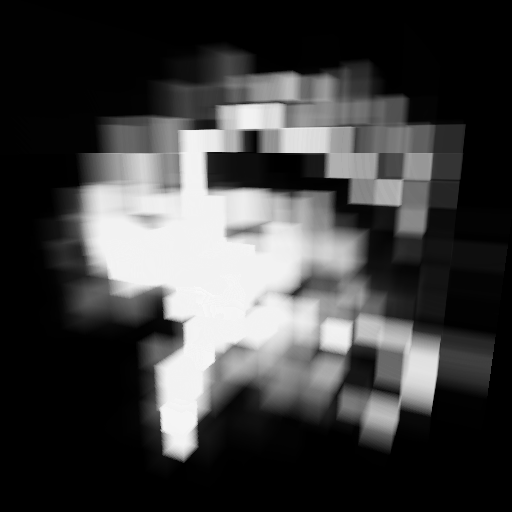
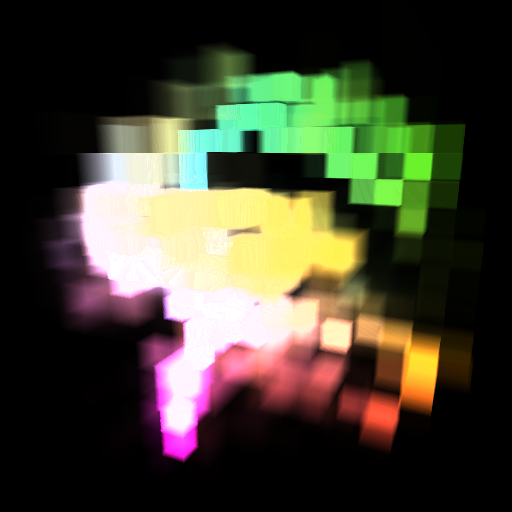
cuda texture

diff --git a/src/hydrant/main.cc b/src/hydrant/main.cc
@@ -3,6 +3,7 @@
 #include <VMUtils/timer.hpp>
 #include <VMUtils/cmdline.hpp>
 #include <varch/utils/io.hpp>
+#include <cudafx/transfer.hpp>
 #include <thumbnail.hpp>
 #include "shaders/scratch.hpp"
 
@@ -43,12 +44,27 @@ int main( int argc, char **argv )
 
 	shader.bbox = Box3D{ min, max };
 	shader.th_4 = thumbnail.dim.x / 4.f;
-	thumbnail.iterate_3d(
-	  [&]( Idx const &idx ) {
-		  auto &dst = shader.thumbnail[ idx.x ][ idx.y ][ idx.z ];
-		  auto &src = thumbnail[ idx ];
-		  dst = { src.value, src.chebyshev };
-	  } );
+
+	auto device = cufx::Device::scan()[ 0 ];
+	auto thumbnail_extent = cufx::Extent{}
+							  .set_width( thumbnail.dim.x )
+							  .set_height( thumbnail.dim.y )
+							  .set_depth( thumbnail.dim.z );
+	auto thumbnail_arr = device.alloc_arraynd<float2, 3>( thumbnail_extent );
+	// vm::println( "dim = {}, thumbnail_extent = {}", thumbnail.dim, thumbnail_extent );
+	auto view_info = cufx::MemoryView2DInfo{}
+					   .set_stride( thumbnail.dim.x * sizeof( float2 ) )
+					   .set_width( thumbnail.dim.x )
+					   .set_height( thumbnail.dim.y );
+	cufx::MemoryView3D<float2> thumbnail_view( thumbnail.data(), view_info, thumbnail_extent );
+	cufx::memory_transfer( thumbnail_arr, thumbnail_view ).launch();
+	auto tex_opts = cufx::Texture::Options{}
+					  .set_address_mode( cufx::Texture::AddressMode::Border )
+					  .set_filter_mode( cufx::Texture::FilterMode::None )
+					  .set_read_mode( cufx::Texture::ReadMode::Raw )
+					  .set_normalize_coords( false );
+	cufx::Texture thumbnail_texture( thumbnail_arr, tex_opts );
+	shader.thumbnail_tex = thumbnail_texture;
 
 	auto camera = Camera{};
 	if ( a.exist( "config" ) ) {
@@ -61,9 +77,8 @@ int main( int argc, char **argv )
 		camera.set_position( x, y, z );
 	}
 
-	auto devices = cufx::Device::scan();
 	cufx::Image<typename Shader::Pixel> image( 512, 512 );
-	auto device_swap = devices[ 0 ].alloc_image_swap( image );
+	auto device_swap = device.alloc_image_swap( image );
 	auto img_view = image.view().with_device_memory( device_swap.second );
 	img_view.copy_to_device().launch();
 

diff --git a/src/hydrant/shaders/scratch.hpp b/src/hydrant/shaders/scratch.hpp
@@ -1,4 +1,5 @@
 #include <glm_math.hpp>
+#include <texture_adapter.hpp>
 #include "chebyshev_shader.hpp"
 
 VM_BEGIN_MODULE( hydrant )
@@ -9,42 +10,42 @@ VM_EXPORT
 	{
 		void write_to( unsigned char dst[ 4 ] )
 		{
-			auto v = glm::clamp( this->v.x * 255.f, 0.f, 255.f );
-			dst[ 0 ] = (unsigned char)( v );
-			dst[ 1 ] = (unsigned char)( v );
-			dst[ 2 ] = (unsigned char)( v );
+			auto v = glm::clamp( this->v * 255.f, glm::vec4( 0.f ), glm::vec4( 255.f ) );
+			dst[ 0 ] = (unsigned char)( v.x );
+			dst[ 1 ] = (unsigned char)( v.y );
+			dst[ 2 ] = (unsigned char)( v.z );
 			dst[ 3 ] = (unsigned char)( 255 );
 		}
 
 	public:
-		glm::vec2 v;
+		glm::vec4 v;
 	};
 
 	struct ScratchIntegrator
 	{
 		using Pixel = ScratchPixel;
 
-		__host__ __device__ bool
-		  integrate( glm::vec3 const &p, glm::ivec3 const &ip, ScratchPixel &pixel ) const
+		__device__ bool
+		  integrate( glm::vec3 const &p, glm::vec3 const &ip, ScratchPixel &pixel ) const
 		{
 			const auto opacity_threshold = 0.95f;
-			const auto density = 3e-3f;
+			const auto density = 3e-4f;
 
-			auto val = thumbnail[ ip.x ][ ip.y ][ ip.z ].x;
-			auto col = glm::vec2{ 1, 1 } * val * density;
-			pixel.v += col * ( 1.f - pixel.v.y );
+			auto val = glm::vec4( thumbnail_tex.sample_3d<float2>( ip ).x );
+			auto col = glm::vec4( ip, 1 ) * val * density;
+			pixel.v += col * ( 1.f - pixel.v.w );
 
 			return pixel.v.y <= opacity_threshold;
 		}
 
-		__host__ __device__ float
-		  chebyshev( glm::ivec3 const &ip ) const
+		__device__ float
+		  chebyshev( glm::vec3 const &ip ) const
 		{
-			return thumbnail[ ip.x ][ ip.y ][ ip.z ].y;
+			return thumbnail_tex.sample_3d<float2>( ip ).y;
 		}
 
 	public:
-		glm::vec2 thumbnail[ 5 ][ 5 ][ 5 ];
+		TextureAdapter thumbnail_tex;
 	};
 
 	SHADER_DECL( ChebyshevShader<ScratchIntegrator> );

diff --git a/src/hydrant/shaders/chebyshev_shader.hpp b/src/hydrant/shaders/chebyshev_shader.hpp
@@ -7,43 +7,38 @@ VM_EXPORT
 	template <typename Integrator>
 	struct ChebyshevShader : Integrator
 	{
-		__host__ __device__ void
+		__device__ void
 		  apply( Ray const &ray, typename Integrator::Pixel &pixel ) const
 		{
-			const auto nsteps = 500;
 			const auto step = 1e-2f * th_4;
-			const auto abs_d = glm::abs( ray.d );
-			const auto cdu = 1.f / max( abs_d.x, max( abs_d.y, abs_d.z ) );
+			const auto cdu = 1.f / glm::compMax( glm::abs( ray.d ) );
 
-			pixel = {};
+			auto pixel_reg = pixel;
 			float tnear, tfar;
 			if ( ray.intersect( bbox, tnear, tfar ) ) {
+				const int nsteps = min( max_steps, int( ( tfar - tnear ) / step ) );
 				auto p = ray.o + ray.d * tnear;
-				int i;
-				for ( i = 0; i < nsteps; ++i ) {
+				for ( int i = 0; i < nsteps; ++i ) {
 					p += ray.d * step;
-					glm::ivec3 ip = floor( p );
-
-					if ( !( ip.x >= 0 && ip.y >= 0 && ip.z >= 0 &&
-							ip.x < 5 && ip.y < 5 && ip.z < 5 ) ) {
-						break;
-					}
+					glm::vec3 ip = floor( p );
 					if ( float cd = this->chebyshev( ip ) ) {
 						float tnear, tfar;
-						Ray{ p, ray.d }.intersect( Box3D{ ip, ip + 1 }, tnear, tfar );
+						Ray{ p, ray.d }.intersect( Box3D{ ip, ip + 1.f }, tnear, tfar );
 						auto d = tfar + ( cd - 1 ) * cdu;
 						i += d / step;
 						p += ray.d * d;
-					} else if ( !this->integrate( p, ip, pixel ) ) {
+					} else if ( !this->integrate( p, ip, pixel_reg ) ) {
 						break;
 					}
 				}
 			}
+			pixel = pixel_reg;
 		}
 
 	public:
 		Box3D bbox;
 		float th_4;
+		int max_steps = 500;
 	};
 }
 

diff --git a/include/glm_math.hpp b/include/glm_math.hpp
@@ -1,28 +1,14 @@
 #pragma once
 
 #include <glm/glm.hpp>
+#define GLM_ENABLE_EXPERIMENTAL
+#include <glm/gtx/io.hpp>
+#include <glm/gtx/component_wise.hpp>
 #include <glm/gtc/matrix_transform.hpp>
 #include <VMUtils/fmt.hpp>
 #include <VMUtils/attributes.hpp>
 #include <VMUtils/modules.hpp>
 #include <VMUtils/json_binding.hpp>
-
-inline std::ostream &operator<<( std::ostream &os, glm::mat4 const &m )
-{
-	for ( int i = 0; i != 4; ++i ) {
-		vm::fprintln( os, "{} {} {} {}", m[ 0 ][ i ], m[ 1 ][ i ], m[ 2 ][ i ], m[ 3 ][ i ] );
-	}
-	return os;
-}
-
-template <int N, typename T>
-inline std::ostream &operator<<( std::ostream &os, glm::vec<N, T> const &v )
-{
-	for ( int i = 0; i != N; ++i ) {
-		vm::fprint( os, "{}, ", v[ i ] );
-	}
-	return os;
-}
 
 namespace glm
 {
@@ -48,6 +34,13 @@ VM_EXPORT
 	{
 		VM_DEFINE_ATTRIBUTE( vec3, min );
 		VM_DEFINE_ATTRIBUTE( vec3, max );
+
+		__host__ __device__ bool
+		  contains( vec3 const &pt ) const
+		{
+			return glm::all( glm::greaterThanEqual( pt, min ) ) &&
+				   glm::all( glm::lessThanEqual( pt, max ) );
+		}
 	};
 
 	struct Ray
@@ -65,8 +58,8 @@ VM_EXPORT
 			vec3 tmin = min( ttop, tbot );
 			vec3 tmax = max( ttop, tbot );
 
-			tnear = max( max( tmin.x, tmin.y ), tmin.z );
-			tfar = min( min( tmax.x, tmax.y ), tmax.z );
+			tnear = glm::compMax( tmin );
+			tfar = glm::compMin( tmax );
 
 			return tfar > tnear;
 		}

diff --git a/include/thumbnail.hpp b/include/thumbnail.hpp
@@ -1,7 +1,6 @@
 #pragma once
 
 #include <vector>
-#include <cstdint>
 #include <VMUtils/modules.hpp>
 #include <VMUtils/attributes.hpp>
 #include <varch/utils/io.hpp>
@@ -17,7 +16,7 @@ VM_EXPORT
 	struct ThumbUnit
 	{
 		float value;
-		uint32_t chebyshev = 0;
+		float chebyshev = 0;
 	};
 
 	template <typename T, typename = typename std::enable_if<
@@ -36,6 +35,9 @@ VM_EXPORT
 		}
 
 	public:
+		T *data() { return buf.data(); }
+		T const *data() const { return buf.data(); }
+
 		T &operator[]( vol::Idx const &idx )
 		{
 			return buf[ idx.z * dim.x * dim.y +
@@ -97,12 +99,12 @@ VM_EXPORT
 						  vec<3, int> u = { idx.x, idx.y, idx.z };
 						  for ( int i = 0; i != 14; ++i ) {
 							  auto v = u + d14[ i ];
-							  uint32_t d0;
+							  float d0;
 							  if ( v.x < 0 || v.y < 0 || v.z < 0 ||
 								   v.x >= dim.x || v.y >= dim.y || v.z >= dim.z ) {
 								  d0 = maxd;
 							  } else {
-								  d0 = ( *this )[ { v.x, v.y, v.z } ].chebyshev + 1;
+								  d0 = ( *this )[ { v.x, v.y, v.z } ].chebyshev + 1.f;
 							  }
 							  if ( d0 < ( *this )[ idx ].chebyshev ) {
 								  ( *this )[ idx ].chebyshev = d0;

diff --git a/include/texture_adapter.hpp b/include/texture_adapter.hpp
@@ -1,0 +1,56 @@
+#pragma once
+
+#include <cudafx/texture.hpp>
+#include "glm_math.hpp"
+
+VM_BEGIN_MODULE( hydrant )
+
+VM_EXPORT
+{
+	struct TextureAdapter
+	{
+		TextureAdapter &operator=( cufx::Texture const &tex )
+		{
+			cu = tex.get();
+			return *this;
+		}
+
+	public:
+		template <typename T, typename E>
+		__host__ __device__ T
+		  sample_3d( glm::vec<3, E> const &p ) const
+		{
+#ifdef __CUDACC__
+			return tex3D<T>( cu, p.x, p.y, p.z );
+#else
+#endif
+		}
+		template <typename T, typename E>
+		__host__ __device__ T
+		  sample_2d( glm::vec<2, E> const &p ) const
+		{
+#ifdef __CUDACC__
+			return tex2D<T>( cu, p.x, p.y );
+#else
+#endif
+		}
+		template <typename T, typename E>
+		__host__ __device__ T
+		  sample_1d( E const &x ) const
+		{
+#ifdef __CUDACC__
+			return tex1D<T>( cu, x );
+#else
+#endif
+		}
+
+	private:
+		union
+		{
+			cudaTextureObject_t cu;
+			void *in;
+		};
+	};
+}
+
+VM_END_MODULE()

diff --git a/src/hydrant/raycaster.hpp b/src/hydrant/raycaster.hpp
@@ -149,7 +149,7 @@ VM_EXPORT
 		CastOptions get_basic_cast_opts( Exhibit const &e, Camera const &c, cufx::ImageView<P> &img )
 		{
 			auto d = max( abs( e.center - e.size ), abs( e.center ) );
-			float scale = max( d.x, max( d.y, d.z ) );
+			float scale = glm::compMax( d );
 			mat4 et = { { scale, 0, 0, 0 },
 						{ 0, scale, 0, 0 },
 						{ 0, 0, scale, 0 },
@@ -212,10 +212,9 @@ VM_EXPORT
 
 			ShaderRegisterer<F>::fill_opts( opts, img, f );
 
-			auto devices = cufx::Device::scan();
 			auto kernel_block_dim = dim3( 32, 32 );
 			auto launch_info = cufx::KernelLaunchInfo{}
-								 .set_device( devices[ 0 ] )
+								 .set_device( cufx::Device::scan()[ 0 ] )
 								 .set_grid_dim( round_up_div( opts.resolution.x, kernel_block_dim.x ),
 												round_up_div( opts.resolution.y, kernel_block_dim.y ) )
 								 .set_block_dim( kernel_block_dim );
